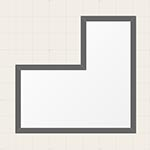
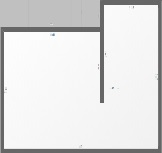
Add files via upload

diff --git a/static/func.js b/static/func.js
@@ -51,7 +51,13 @@ function initHistory(boot = false) {
     }
     if (boot == "newSquare") {
       if (localStorage.getItem('history')) localStorage.removeItem('history');
-      HISTORY.push({"objData":[],"wallData":[{"thick":20,"start":{"x":540,"y":194},"end":{"x":540,"y":734},"type":"normal","parent":3,"child":1,"angle":1.5707963267948966,"equations":{"up":{"A":"v","B":550},"down":{"A":"v","B":530},"base":{"A":"v","B":540}},"coords":[{"x":550,"y":204},{"x":530,"y":184},{"x":530,"y":744},{"x":550,"y":724}],"graph":{"0":{},"context":{},"length":1}},{"thick":20,"start":{"x":540,"y":734},"end":{"x":1080,"y":734},"type":"normal","parent":0,"child":2,"angle":0,"equations":{"up":{"A":"h","B":724},"down":{"A":"h","B":744},"base":{"A":"h","B":734}},"coords":[{"x":550,"y":724},{"x":530,"y":744},{"x":1090,"y":744},{"x":1070,"y":724}],"graph":{"0":{},"context":{},"length":1}},{"thick":20,"start":{"x":1080,"y":734},"end":{"x":1080,"y":194},"type":"normal","parent":1,"child":3,"angle":-1.5707963267948966,"equations":{"up":{"A":"v","B":1070},"down":{"A":"v","B":1090},"base":{"A":"v","B":1080}},"coords":[{"x":1070,"y":724},{"x":1090,"y":744},{"x":1090,"y":184},{"x":1070,"y":204}],"graph":{"0":{},"context":{},"length":1}},{"thick":20,"start":{"x":1080,"y":194},"end":{"x":540,"y":194},"type":"normal","parent":2,"child":0,"angle":3.141592653589793,"equations":{"up":{"A":"h","B":204},"down":{"A":"h","B":184},"base":{"A":"h","B":194}},"coords":[{"x":1070,"y":204},{"x":1090,"y":184},{"x":530,"y":184},{"x":550,"y":204}],"graph":{"0":{},"context":{},"length":1}}],"roomData":[{"coords":[{"x":540,"y":734},{"x":1080,"y":734},{"x":1080,"y":194},{"x":540,"y":194},{"x":540,"y":734}],"coordsOutside":[{"x":1090,"y":744},{"x":1090,"y":184},{"x":530,"y":184},{"x":530,"y":744},{"x":1090,"y":744}],"coordsInside":[{"x":1070,"y":724},{"x":1070,"y":204},{"x":550,"y":204},{"x":550,"y":724},{"x":1070,"y":724}],"inside":[],"way":["0","2","3","1","0"],"area":270400,"surface":"","name":"","color":"gradientWhite","showSurface":true,"action":"add"}]});
+      HISTORY.push({"objData":[],"wallData":[
+        {"thick":20,"start":{"x":640,"y":744},"end":{"x":640,"y":144},"type":"normal","parent":5,"child":1,"angle":1.5707963267948966,"equations":{"up":{"A":"v","B":457},"down":{"A":"v","B":437},"base":{"A":"v","B":447}},"coords":[{"x":457,"y":468},{"x":437,"y":448},{"x":437,"y":754},{"x":457,"y":734}],"graph":{"0":{},"context":{},"length":1}},
+        {"thick":20,"start":{"x":640,"y":744},"end":{"x":1347,"y":744},"type":"normal","parent":0,"child":2,"angle":0,"equations":{"up":{"A":"h","B":734},"down":{"A":"h","B":754},"base":{"A":"h","B":744}},"coords":[{"x":457,"y":734},{"x":437,"y":754},{"x":1357,"y":754},{"x":1337,"y":734}],"graph":{"0":{},"context":{},"length":1}},
+        {"thick":20,"start":{"x":1347,"y":744},"end":{"x":1347,"y":144},"type":"normal","parent":1,"child":3,"angle":-1.5707963267948966,"equations":{"up":{"A":"v","B":1337},"down":{"A":"v","B":1357},"base":{"A":"v","B":1347}},"coords":[{"x":1337,"y":734},{"x":1357,"y":754},{"x":1357,"y":134},{"x":1337,"y":154}],"graph":{"0":{},"context":{},"length":1}},
+        {"thick":20,"start":{"x":1347,"y":144},"end":{"x":640,"y":144},"type":"normal","parent":2,"child":4,"angle":3.141592653589793,"equations":{"up":{"A":"h","B":154},"down":{"A":"h","B":134},"base":{"A":"h","B":144}},"coords":[{"x":1337,"y":154},{"x":1357,"y":134},{"x":1010,"y":134},{"x":1030,"y":154}],"graph":{"0":{},"context":{},"length":1}},
+        {"thick":10,"start":{"x":920,"y":144},"end":{"x":920,"y":744},"type":"normal","parent":3,"child":5,"angle":1.5707963267948966,"equations":{"up":{"A":"v","B":1030},"down":{"A":"v","B":1010},"base":{"A":"v","B":1020}},"coords":[{"x":1030,"y":154},{"x":1010,"y":134},{"x":1010,"y":448},{"x":1030,"y":468}],"graph":{"0":{},"context":{},"length":1}},
+        {"thick":10,"start":{"x":1347,"y":458},"end":{"x":640,"y":458},"type":"normal","parent":4,"child":0,"angle":3.141592653589793,"equations":{"up":{"A":"h","B":468},"down":{"A":"h","B":448},"base":{"A":"h","B":458}},"coords":[{"x":1030,"y":468},{"x":1010,"y":448},{"x":437,"y":448},{"x":457,"y":468}],"graph":{"0":{},"context":{},"length":1}}],"roomData":[{"coords":[{"x":447,"y":744},{"x":1347,"y":744},{"x":1347,"y":144},{"x":1020,"y":144},{"x":1020,"y":458},{"x":447,"y":458},{"x":447,"y":744}],"coordsOutside":[{"x":1357,"y":754},{"x":1357,"y":134},{"x":1010,"y":134},{"x":1010,"y":448},{"x":437,"y":448},{"x":437,"y":754},{"x":1357,"y":754}],"coordsInside":[{"x":1337,"y":734},{"x":1337,"y":154},{"x":1030,"y":154},{"x":1030,"y":468},{"x":457,"y":468},{"x":457,"y":734},{"x":1337,"y":734}],"inside":[],"way":["0","2","3","4","5","1","0"],"area":330478,"surface":"","name":"","color":"gradientWhite","showSurface":true,"action":"add"}]});
       HISTORY[0] = JSON.stringify(HISTORY[0]);
       localStorage.setItem('history', JSON.stringify(HISTORY));
       load(0);
@@ -59,7 +65,13 @@ function initHistory(boot = false) {
     }
     if (boot == "newL") {
       if (localStorage.getItem('history')) localStorage.removeItem('history');
-      HISTORY.push({"objData":[],"wallData":[{"thick":20,"start":{"x":447,"y":458},"end":{"x":447,"y":744},"type":"normal","parent":5,"child":1,"angle":1.5707963267948966,"equations":{"up":{"A":"v","B":457},"down":{"A":"v","B":437},"base":{"A":"v","B":447}},"coords":[{"x":457,"y":468},{"x":437,"y":448},{"x":437,"y":754},{"x":457,"y":734}],"graph":{"0":{},"context":{},"length":1}},{"thick":20,"start":{"x":447,"y":744},"end":{"x":1347,"y":744},"type":"normal","parent":0,"child":2,"angle":0,"equations":{"up":{"A":"h","B":734},"down":{"A":"h","B":754},"base":{"A":"h","B":744}},"coords":[{"x":457,"y":734},{"x":437,"y":754},{"x":1357,"y":754},{"x":1337,"y":734}],"graph":{"0":{},"context":{},"length":1}},{"thick":20,"start":{"x":1347,"y":744},"end":{"x":1347,"y":144},"type":"normal","parent":1,"child":3,"angle":-1.5707963267948966,"equations":{"up":{"A":"v","B":1337},"down":{"A":"v","B":1357},"base":{"A":"v","B":1347}},"coords":[{"x":1337,"y":734},{"x":1357,"y":754},{"x":1357,"y":134},{"x":1337,"y":154}],"graph":{"0":{},"context":{},"length":1}},{"thick":20,"start":{"x":1347,"y":144},"end":{"x":1020,"y":144},"type":"normal","parent":2,"child":4,"angle":3.141592653589793,"equations":{"up":{"A":"h","B":154},"down":{"A":"h","B":134},"base":{"A":"h","B":144}},"coords":[{"x":1337,"y":154},{"x":1357,"y":134},{"x":1010,"y":134},{"x":1030,"y":154}],"graph":{"0":{},"context":{},"length":1}},{"thick":20,"start":{"x":1020,"y":144},"end":{"x":1020,"y":458},"type":"normal","parent":3,"child":5,"angle":1.5707963267948966,"equations":{"up":{"A":"v","B":1030},"down":{"A":"v","B":1010},"base":{"A":"v","B":1020}},"coords":[{"x":1030,"y":154},{"x":1010,"y":134},{"x":1010,"y":448},{"x":1030,"y":468}],"graph":{"0":{},"context":{},"length":1}},{"thick":20,"start":{"x":1020,"y":458},"end":{"x":447,"y":458},"type":"normal","parent":4,"child":0,"angle":3.141592653589793,"equations":{"up":{"A":"h","B":468},"down":{"A":"h","B":448},"base":{"A":"h","B":458}},"coords":[{"x":1030,"y":468},{"x":1010,"y":448},{"x":437,"y":448},{"x":457,"y":468}],"graph":{"0":{},"context":{},"length":1}}],"roomData":[{"coords":[{"x":447,"y":744},{"x":1347,"y":744},{"x":1347,"y":144},{"x":1020,"y":144},{"x":1020,"y":458},{"x":447,"y":458},{"x":447,"y":744}],"coordsOutside":[{"x":1357,"y":754},{"x":1357,"y":134},{"x":1010,"y":134},{"x":1010,"y":448},{"x":437,"y":448},{"x":437,"y":754},{"x":1357,"y":754}],"coordsInside":[{"x":1337,"y":734},{"x":1337,"y":154},{"x":1030,"y":154},{"x":1030,"y":468},{"x":457,"y":468},{"x":457,"y":734},{"x":1337,"y":734}],"inside":[],"way":["0","2","3","4","5","1","0"],"area":330478,"surface":"","name":"","color":"gradientWhite","showSurface":true,"action":"add"}]});
+      HISTORY.push({"objData":[],"wallData":[
+      {"thick":20,"start":{"x":447,"y":250},"end":{"x":447,"y":744},"type":"normal","parent":5,"child":1,"angle":1.5707963267948966,"equations":{"up":{"A":"v","B":457},"down":{"A":"v","B":437},"base":{"A":"v","B":447}},"coords":[{"x":457,"y":468},{"x":437,"y":448},{"x":437,"y":754},{"x":457,"y":734}],"graph":{"0":{},"context":{},"length":1}},
+      {"thick":20,"start":{"x":447,"y":744},"end":{"x":1347,"y":744},"type":"normal","parent":0,"child":2,"angle":0,"equations":{"up":{"A":"h","B":734},"down":{"A":"h","B":754},"base":{"A":"h","B":744}},"coords":[{"x":457,"y":734},{"x":437,"y":754},{"x":1357,"y":754},{"x":1337,"y":734}],"graph":{"0":{},"context":{},"length":1}},
+      {"thick":20,"start":{"x":1347,"y":744},"end":{"x":1347,"y":144},"type":"normal","parent":1,"child":3,"angle":-1.5707963267948966,"equations":{"up":{"A":"v","B":1337},"down":{"A":"v","B":1357},"base":{"A":"v","B":1347}},"coords":[{"x":1337,"y":734},{"x":1357,"y":754},{"x":1357,"y":134},{"x":1337,"y":154}],"graph":{"0":{},"context":{},"length":1}},
+      {"thick":20,"start":{"x":1347,"y":144},"end":{"x":1020,"y":144},"type":"normal","parent":2,"child":4,"angle":3.141592653589793,"equations":{"up":{"A":"h","B":154},"down":{"A":"h","B":134},"base":{"A":"h","B":144}},"coords":[{"x":1337,"y":154},{"x":1357,"y":134},{"x":1010,"y":134},{"x":1030,"y":154}],"graph":{"0":{},"context":{},"length":1}},
+      {"thick":20,"start":{"x":1020,"y":144},"end":{"x":1020,"y":550},"type":"normal","parent":3,"child":5,"angle":1.5707963267948966,"equations":{"up":{"A":"v","B":1030},"down":{"A":"v","B":1010},"base":{"A":"v","B":1020}},"coords":[{"x":1030,"y":154},{"x":1010,"y":134},{"x":1010,"y":448},{"x":1030,"y":468}],"graph":{"0":{},"context":{},"length":1}},
+      {"thick":20,"start":{"x":1020,"y":250},"end":{"x":447,"y":250},"type":"normal","parent":4,"child":0,"angle":3.141592653589793,"equations":{"up":{"A":"h","B":468},"down":{"A":"h","B":448},"base":{"A":"h","B":458}},"coords":[{"x":1030,"y":468},{"x":1010,"y":448},{"x":437,"y":448},{"x":457,"y":468}],"graph":{"0":{},"context":{},"length":1}}],"roomData":[{"coords":[{"x":447,"y":744},{"x":1347,"y":744},{"x":1347,"y":144},{"x":1020,"y":144},{"x":1020,"y":458},{"x":447,"y":458},{"x":447,"y":744}],"coordsOutside":[{"x":1357,"y":754},{"x":1357,"y":134},{"x":1010,"y":134},{"x":1010,"y":448},{"x":437,"y":448},{"x":437,"y":754},{"x":1357,"y":754}],"coordsInside":[{"x":1337,"y":734},{"x":1337,"y":154},{"x":1030,"y":154},{"x":1030,"y":468},{"x":457,"y":468},{"x":457,"y":734},{"x":1337,"y":734}],"inside":[],"way":["0","2","3","4","5","1","0"],"area":330478,"surface":"","name":"","color":"gradientWhite","showSurface":true,"action":"add"}]});
       HISTORY[0] = JSON.stringify(HISTORY[0]);
       localStorage.setItem('history', JSON.stringify(HISTORY));
       load(0);
